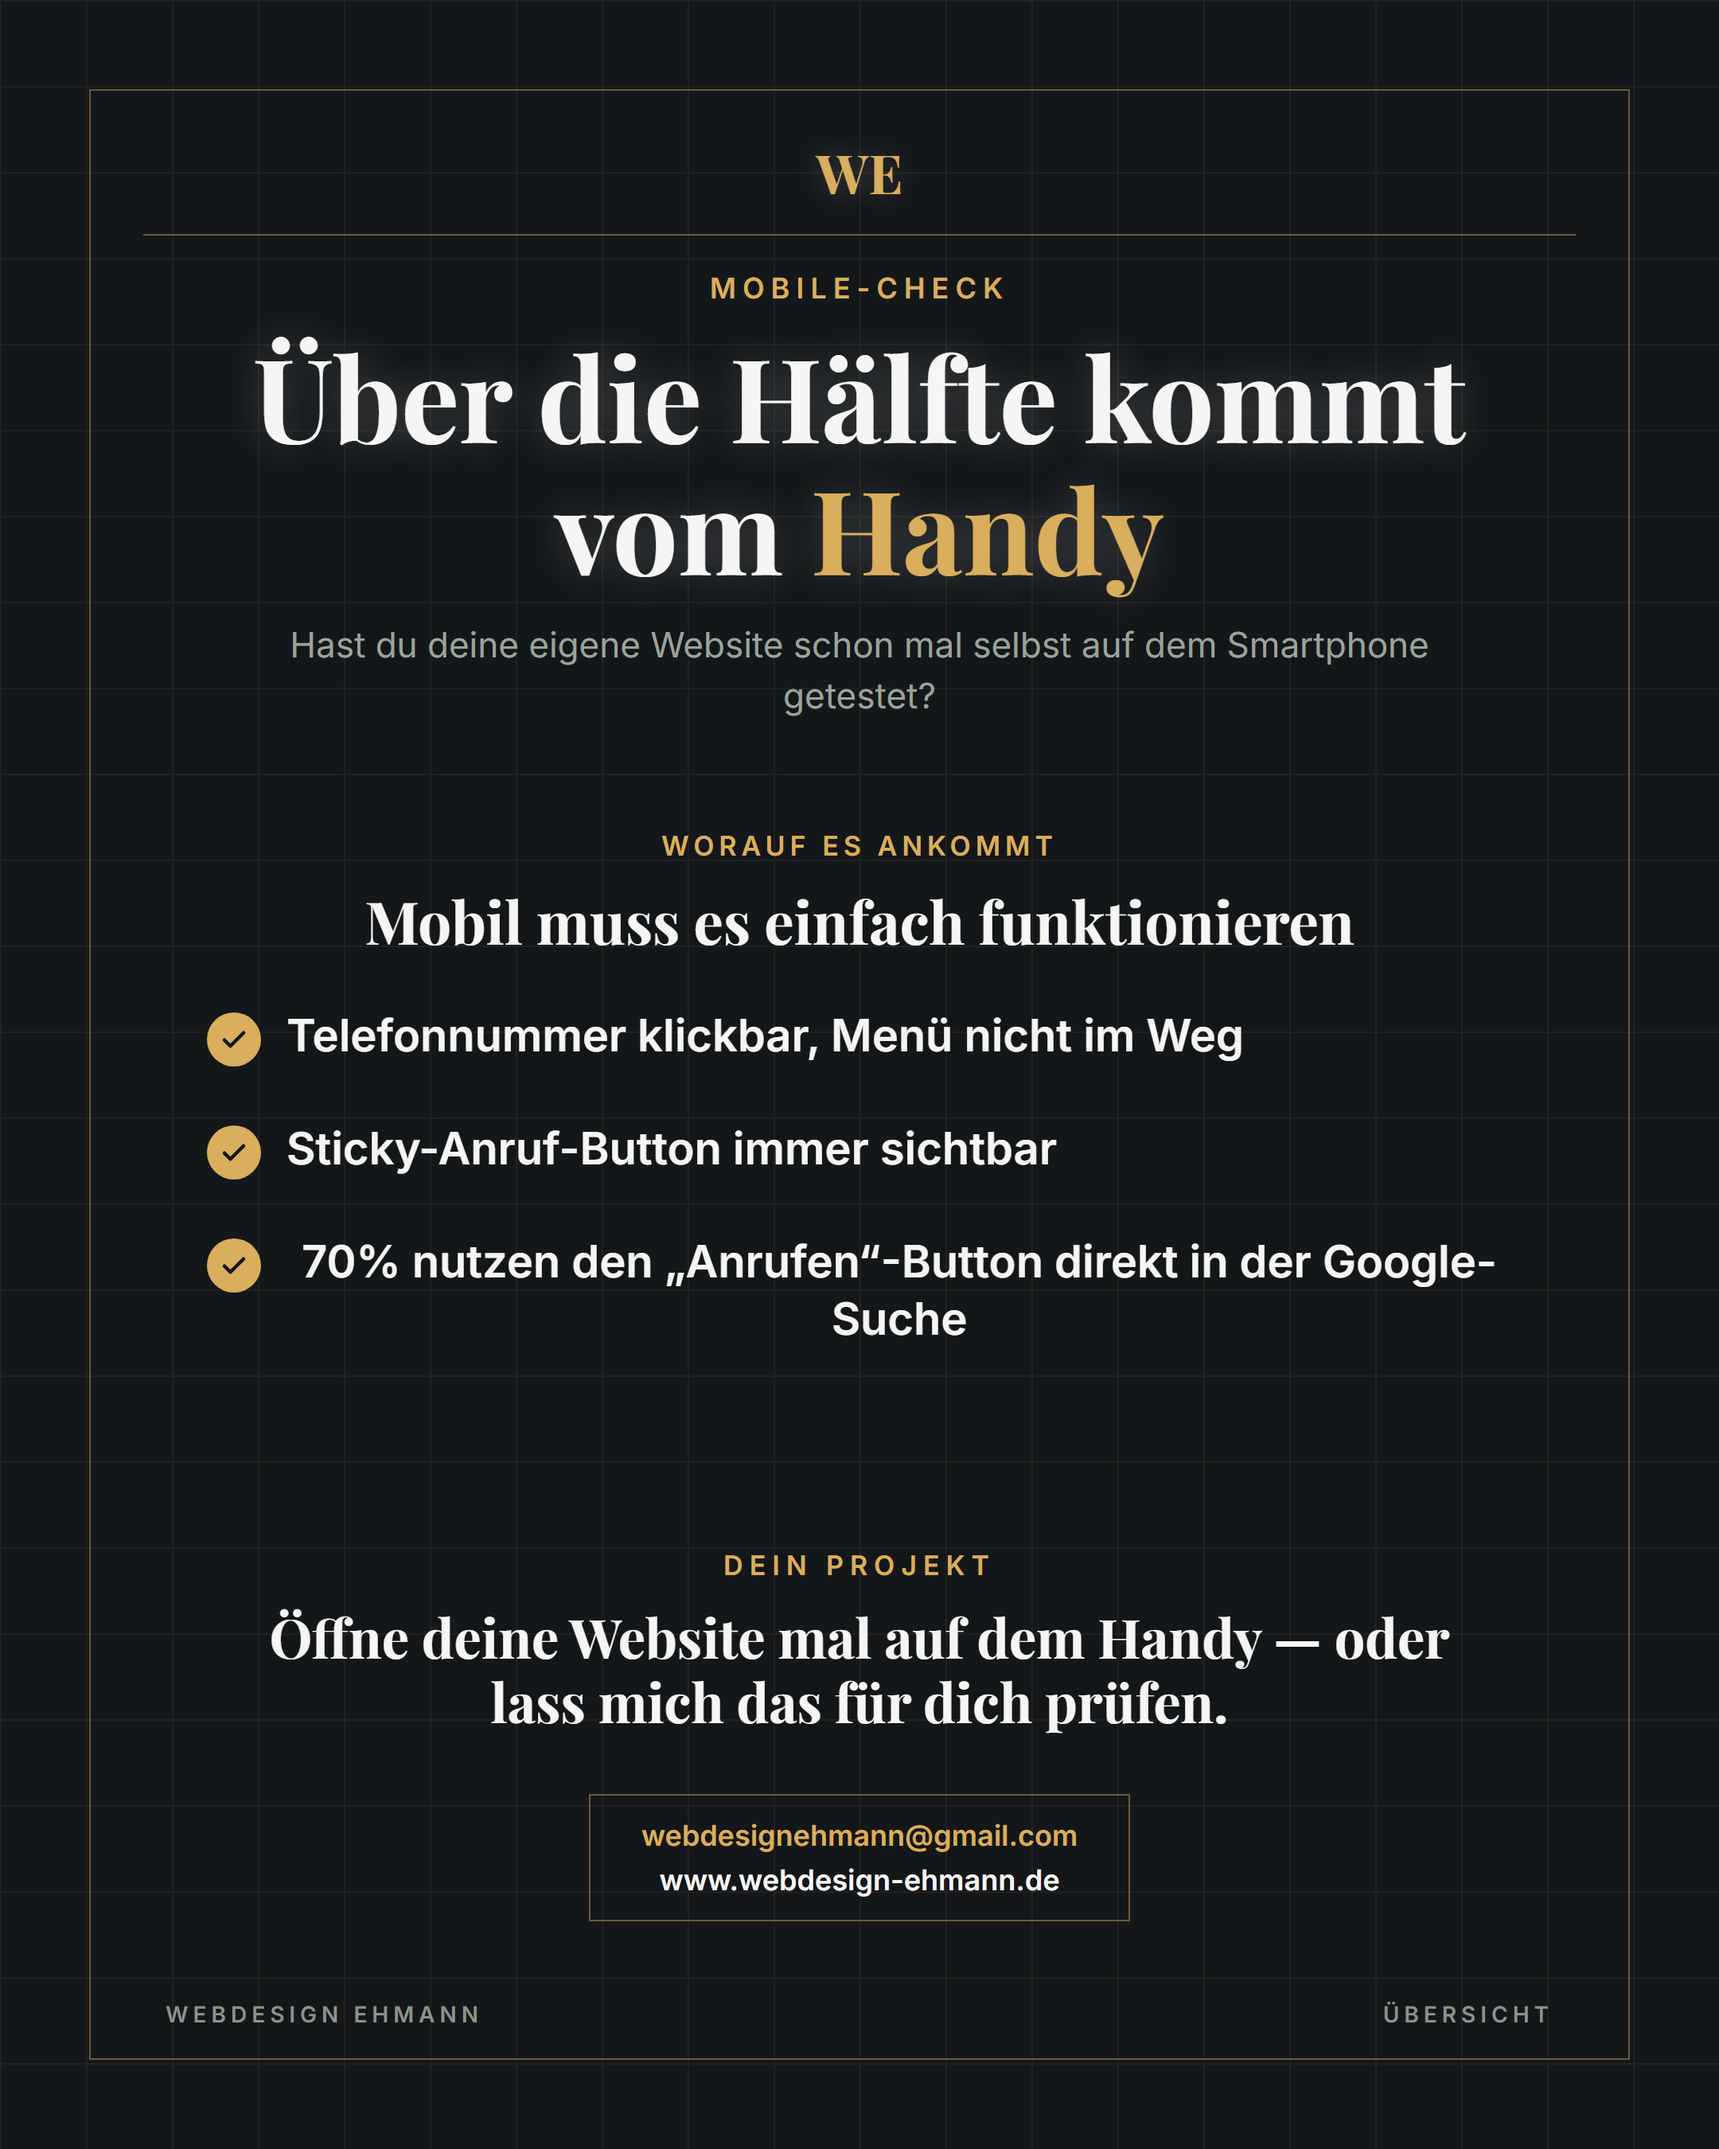
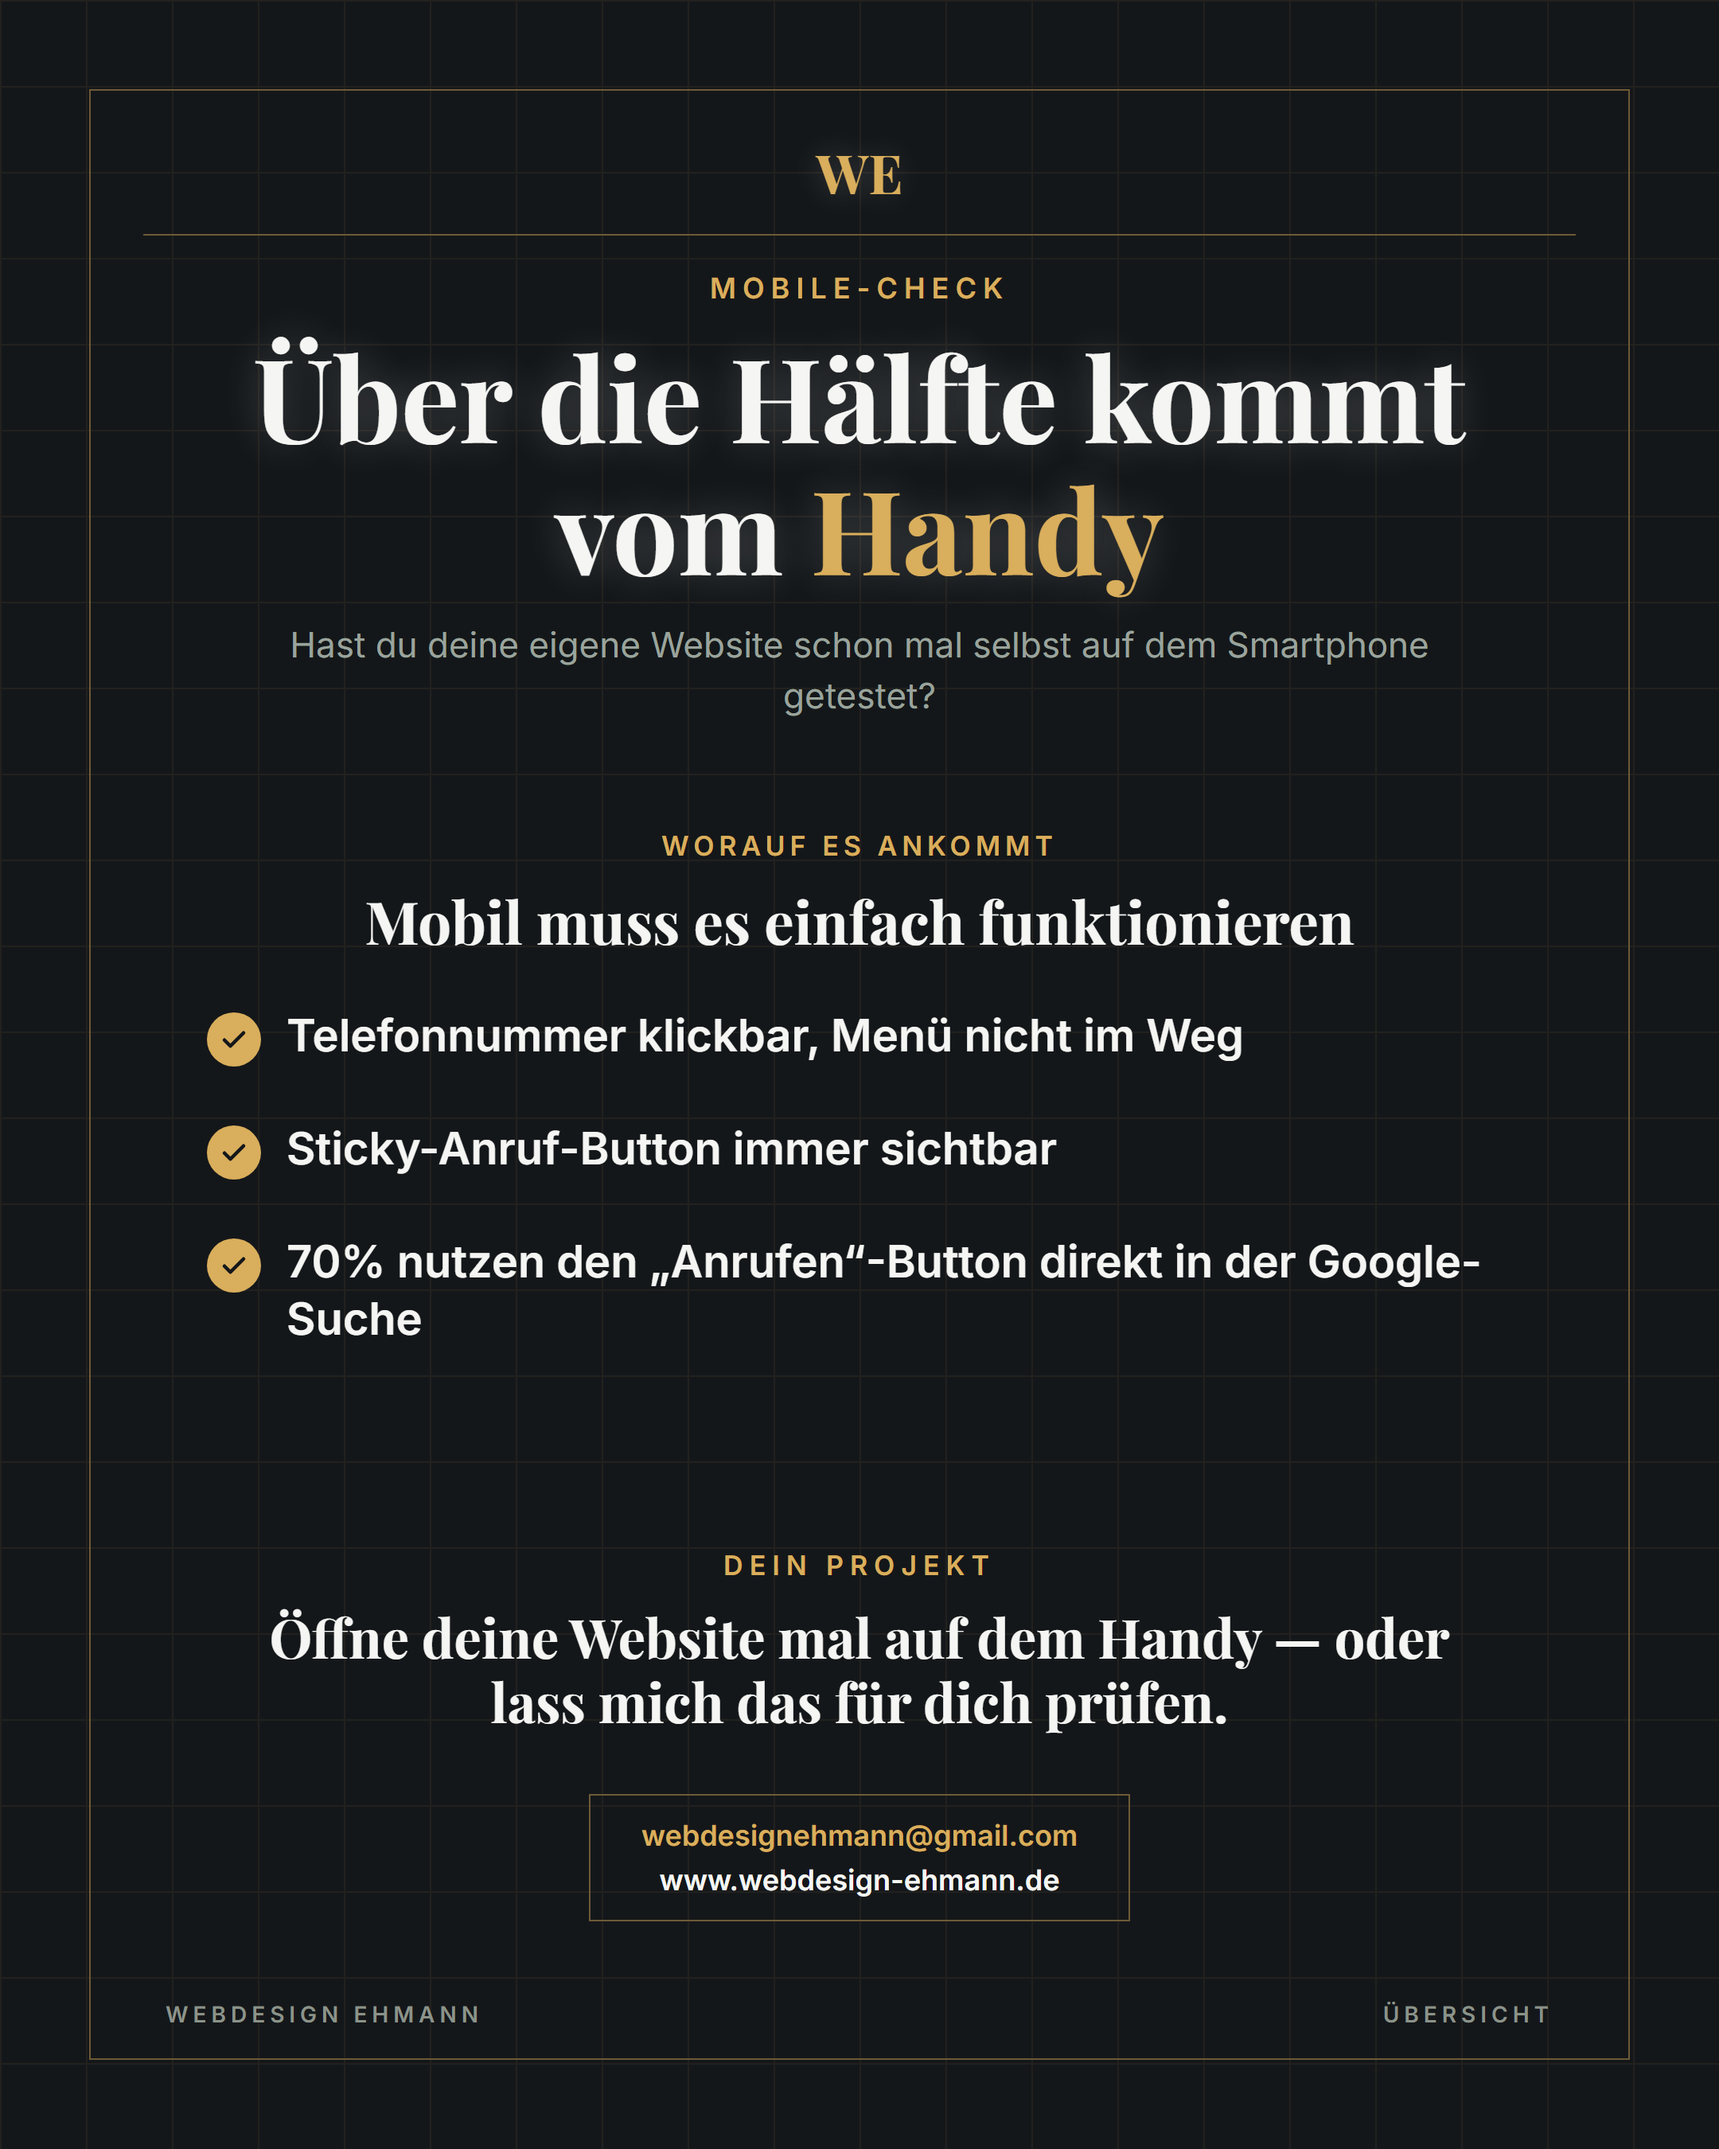
Instagram-Uebersicht: umbrechende Checklisten-Zeilen linksbuendig statt zentriert
Eigentliche Ursache des Versatzes: text-align:center von .col hat sich
auf die Punkt-Texte vererbt, wodurch eine umgebrochene zweite Zeile
innerhalb ihrer Box zentriert statt am Haken linksbuendig ausgerichtet
wurde. Jetzt text-align:left explizit gesetzt - per Pixelmessung
verifiziert, dass alle Zeilen (auch umgebrochene) an derselben
X-Position wie die einzeiligen Punkte starten.

Changed region(s): [[0.1551, 0.56, 0.8685, 0.6222]]

diff --git a/assets/marketing/instagram-posts/_build/overview-generic.js b/assets/marketing/instagram-posts/_build/overview-generic.js
@@ -58,7 +58,7 @@ function pointsList(points) {
   const row = (item) => `
     <div style="display:flex; align-items:flex-start; gap:16px; margin-bottom:34px;">
       <div style="flex-shrink:0; margin-top:3px;">${checkIcon()}</div>
-      <div style="font-family:'Inter',sans-serif; font-weight:700; font-size:28px; line-height:1.28; color:${t.headline};">${item}</div>
+      <div style="font-family:'Inter',sans-serif; font-weight:700; font-size:28px; line-height:1.28; color:${t.headline}; text-align:left;">${item}</div>
     </div>`;
   if (!colB.length) {
     return `<div style="width:100%; max-width:820px; margin:0 auto;">${colA.map(row).join("")}</div>`;
